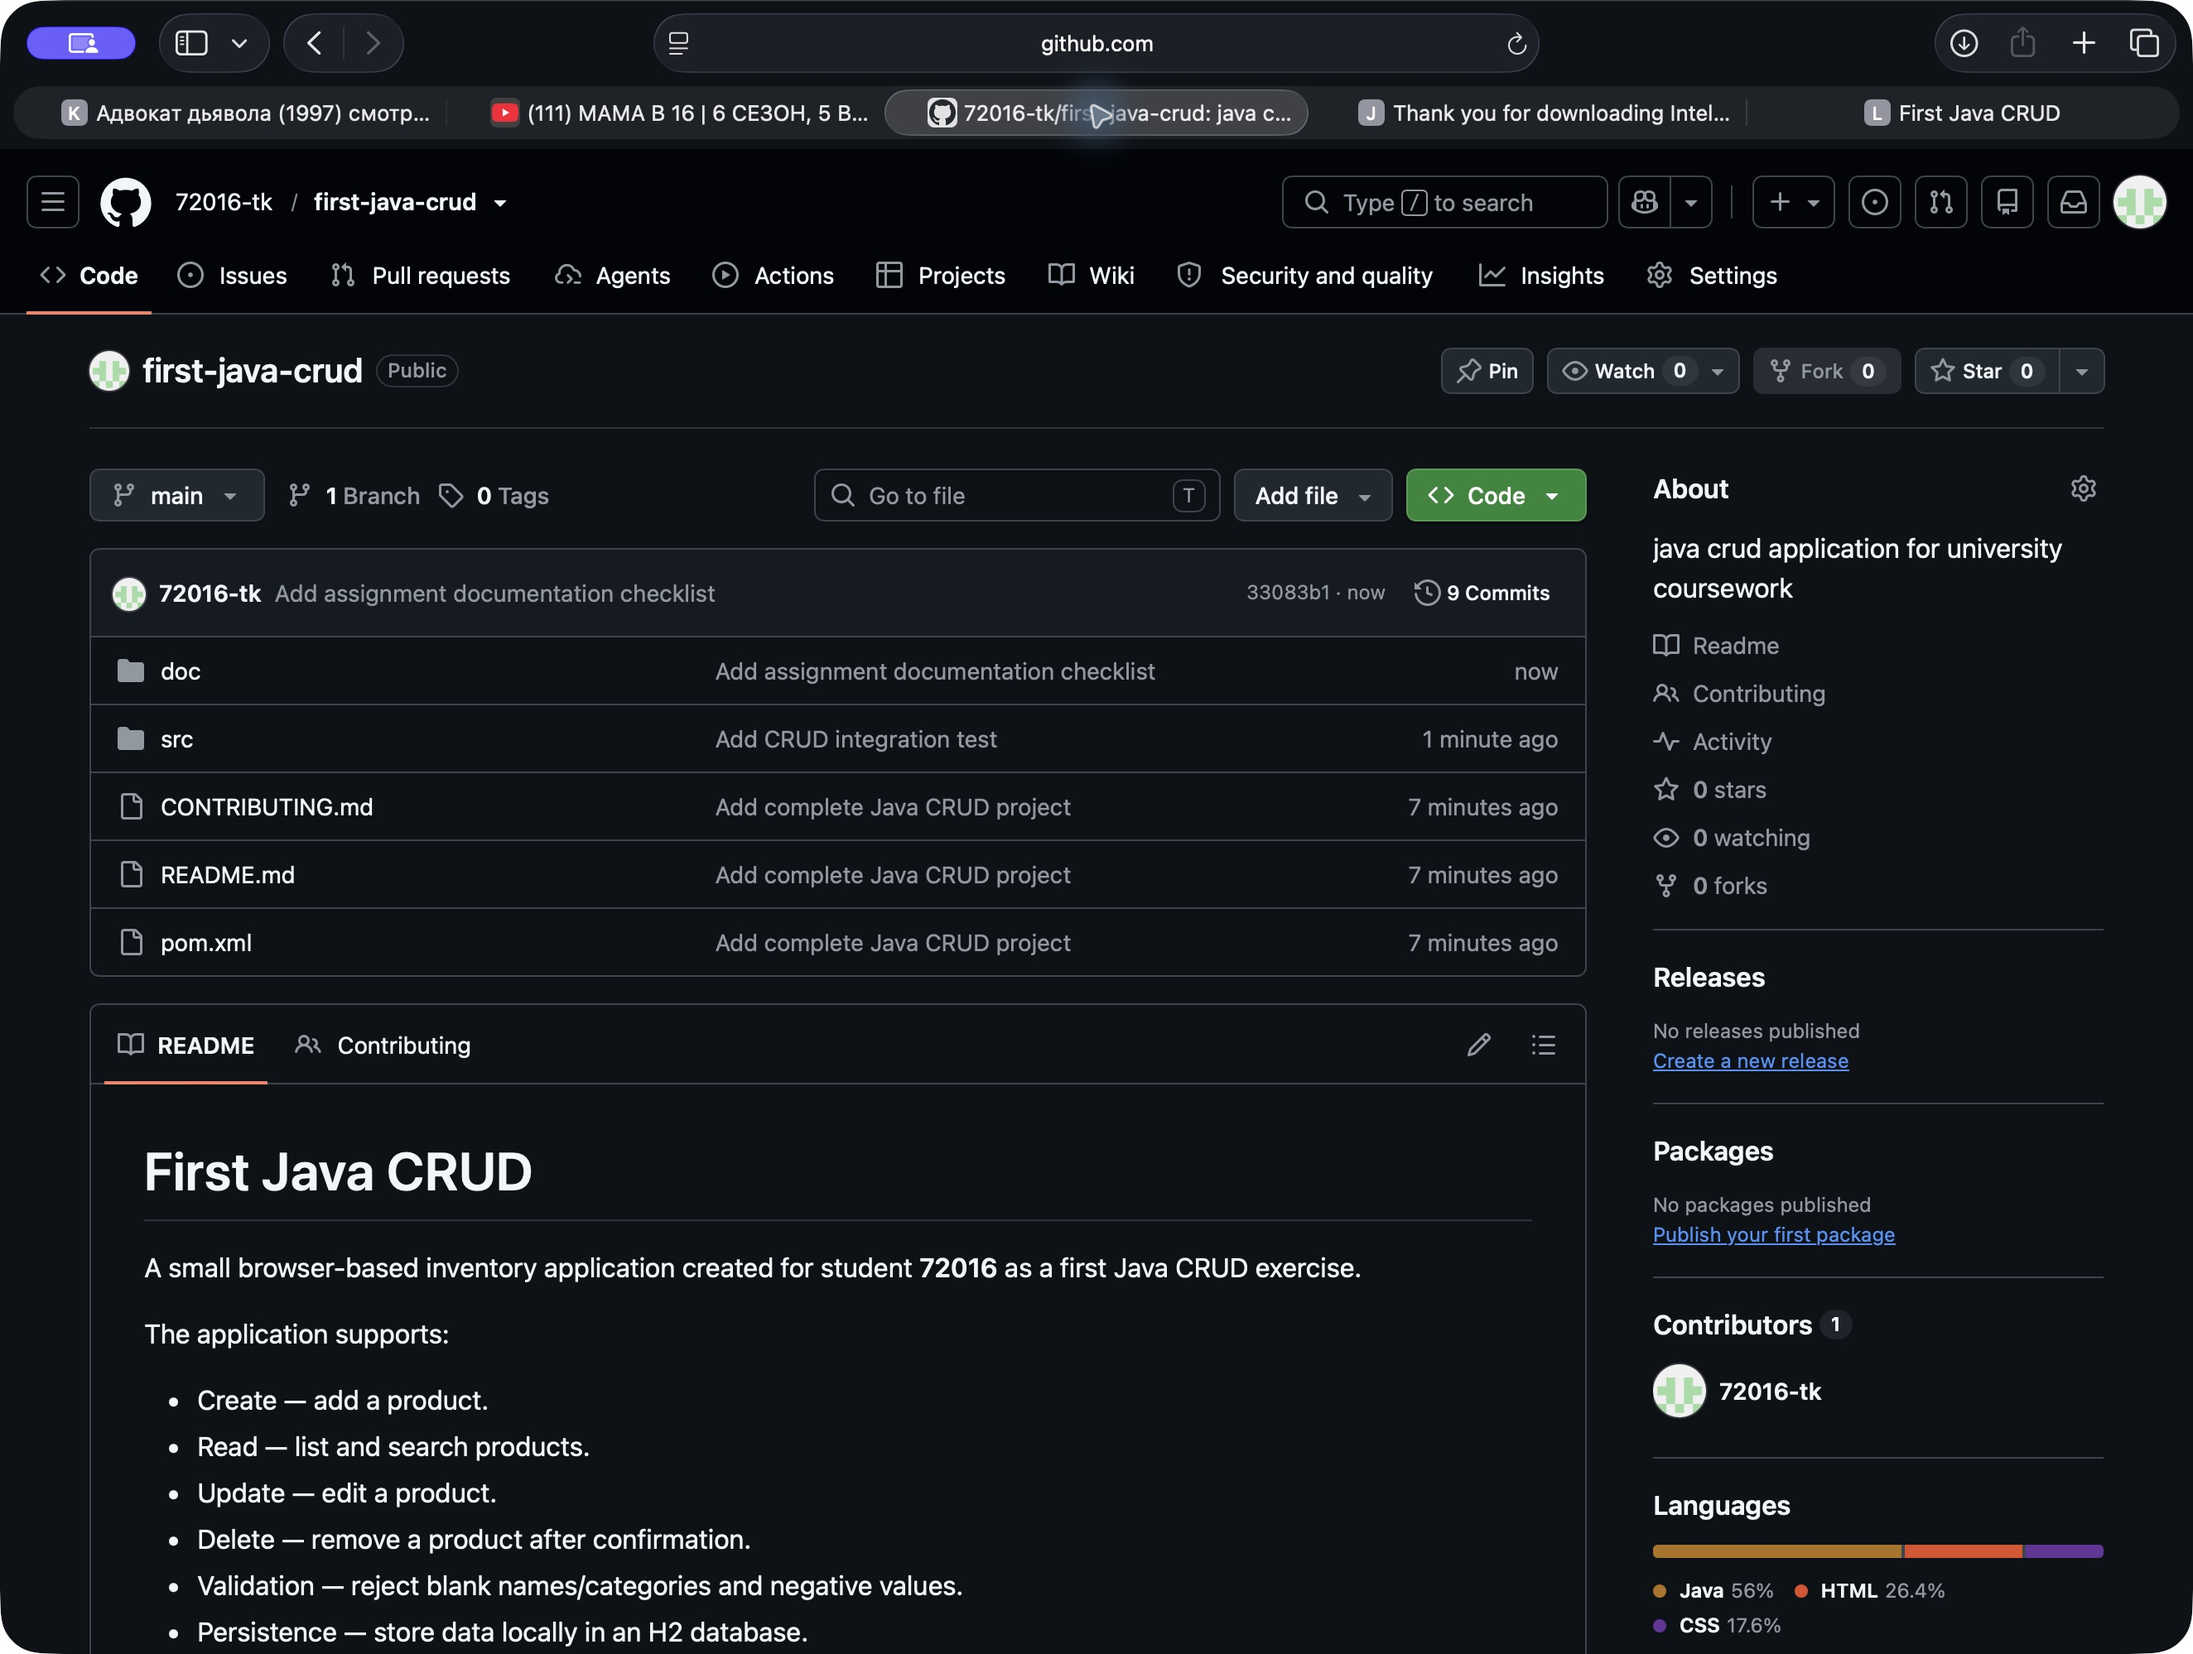
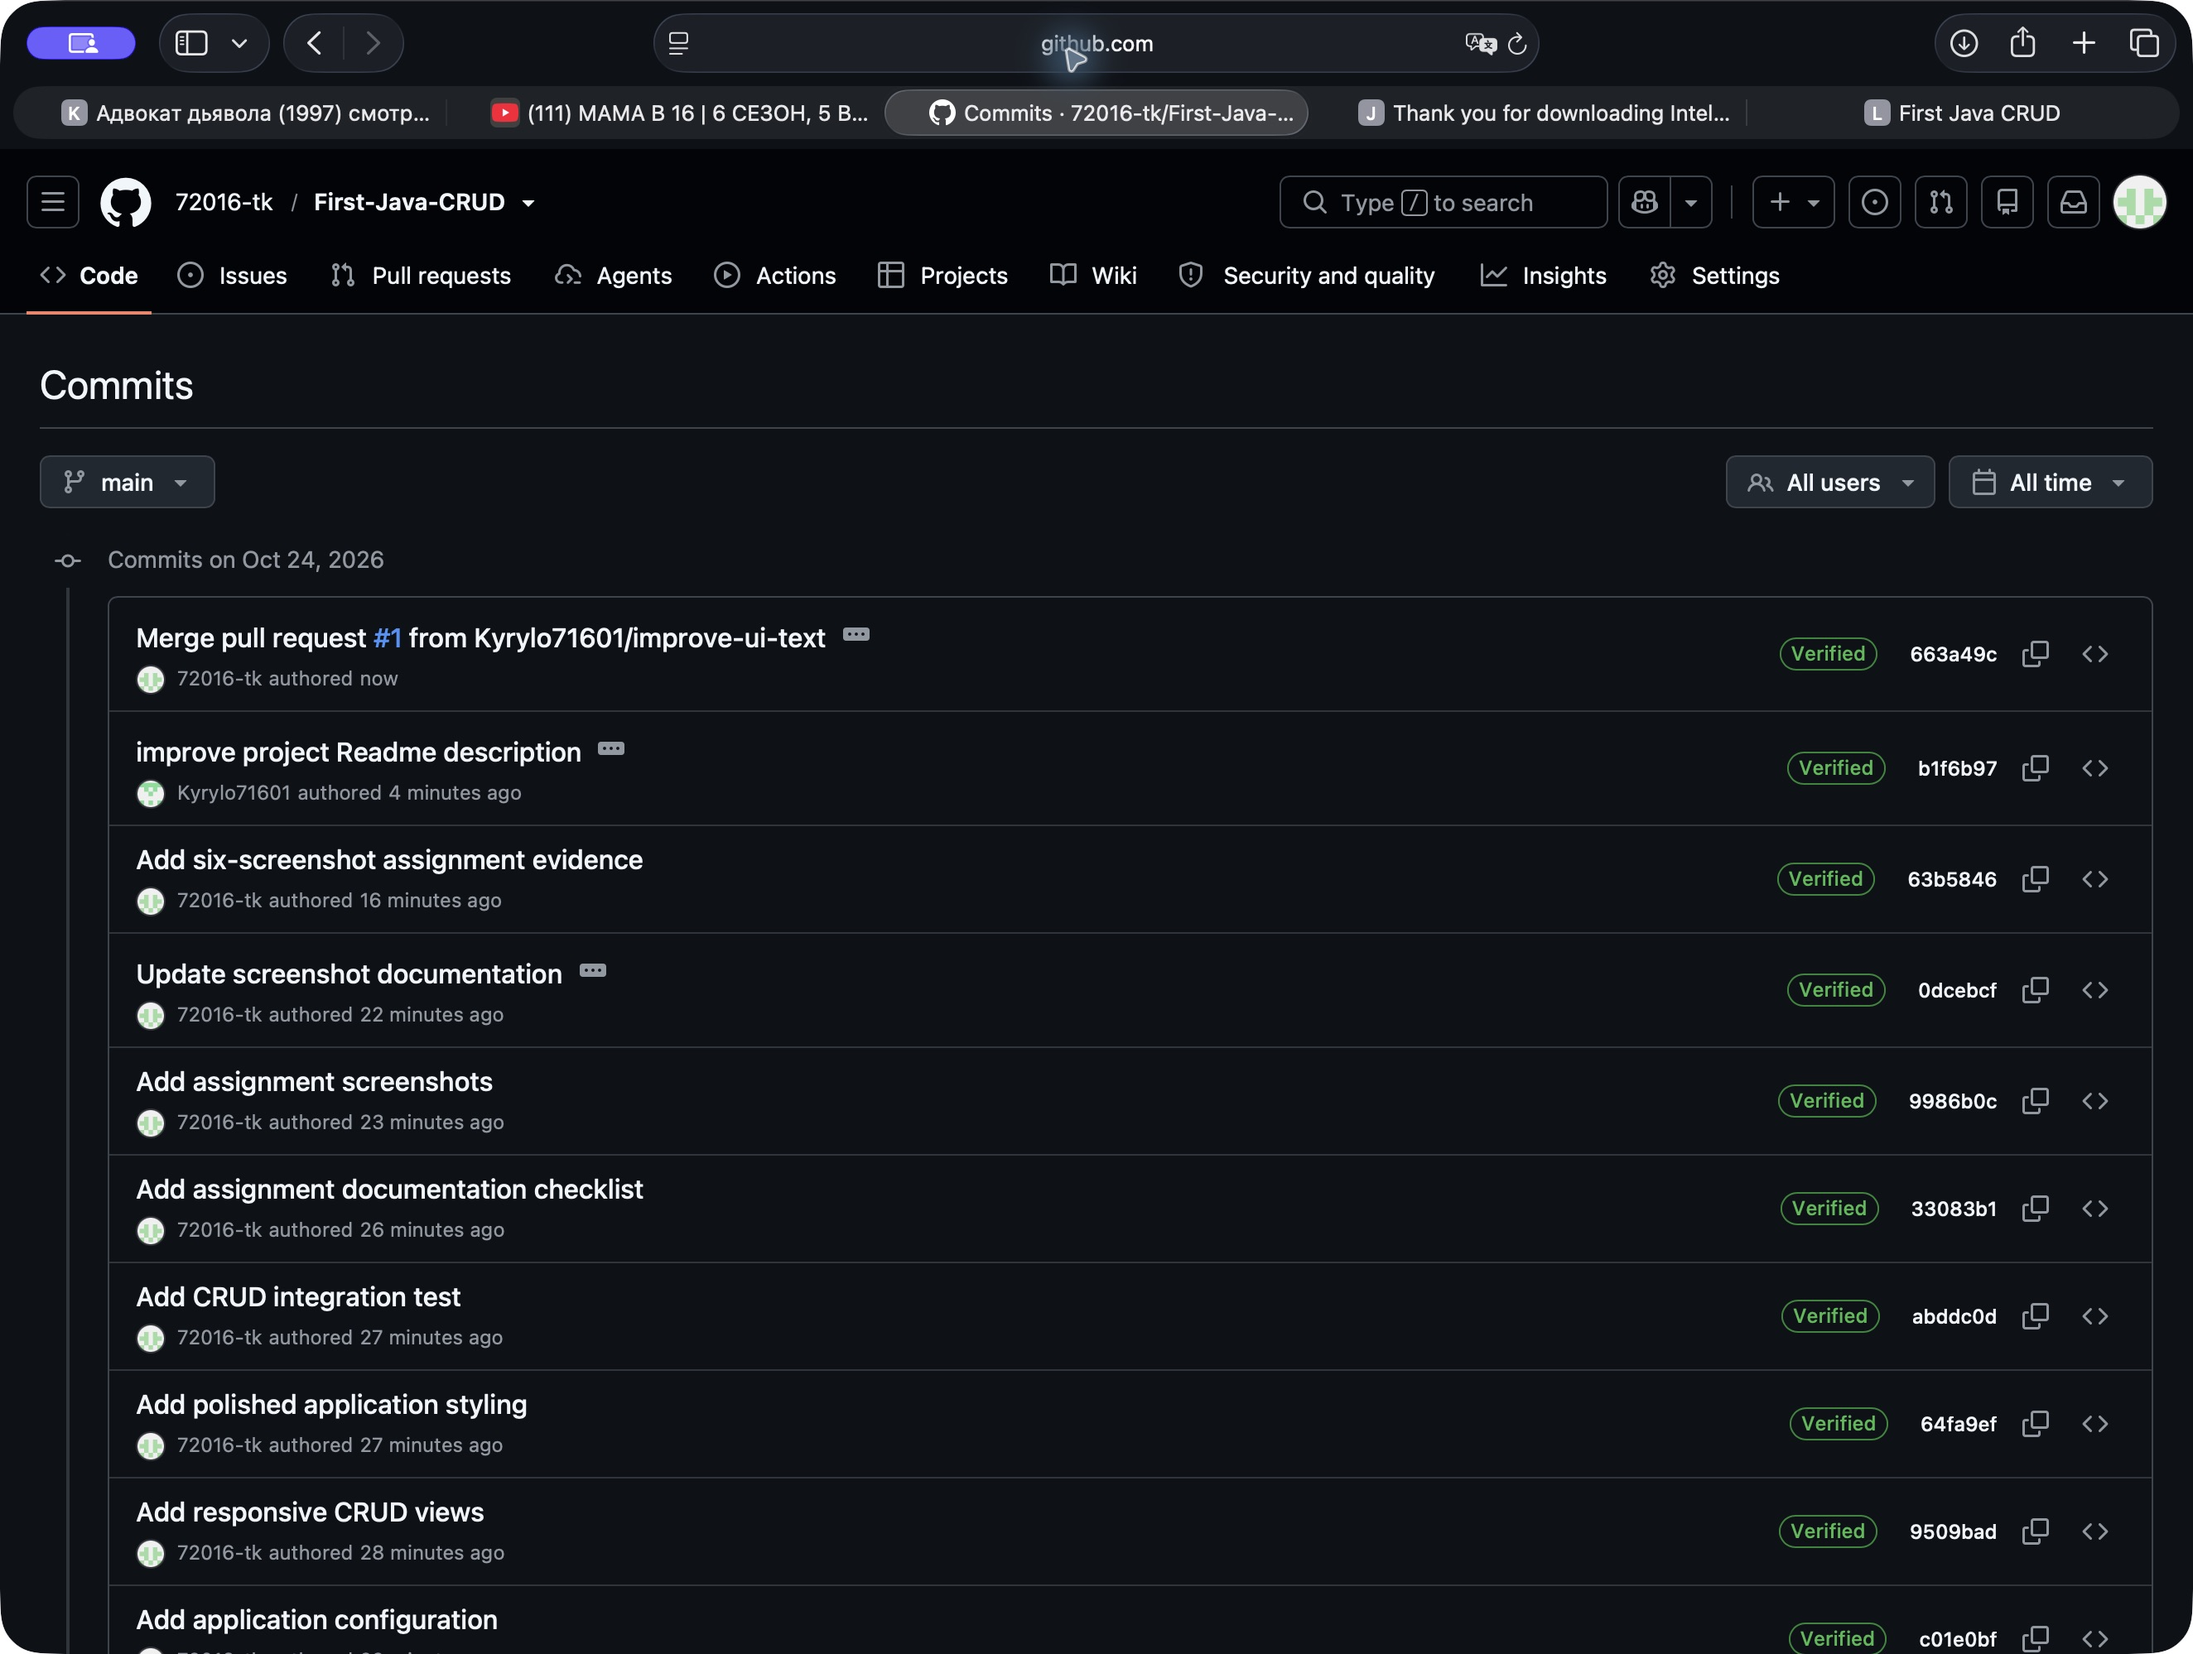
Add final partner collaboration evidence

diff --git a/doc/README.md b/doc/README.md
@@ -9,8 +9,8 @@ Current evidence:
 3. `edit-product.png` — the Update form populated with an existing product.
 4. `intellij-startup.png` — IntelliJ IDEA with the application source and successful startup output, including `Tomcat started on port 8080` and `Started FirstJavaCrudApplication`.
 5. `github-history.png` — the current public GitHub repository and commit history.
-6. `github-final.png` — the completed public repository after the assignment files were uploaded.
+6. `github-final.png` — the merged partner Pull Request showing the contribution from `Kyrylo71601` and the merge into `72016-tk:main`.
 
-After the partner Pull Request is merged, replace `github-history.png` with an updated screenshot that clearly shows commits from both student 72016 and the partner. An additional screenshot of the merged Pull Request is recommended because it makes the collaboration requirement easy to verify.
+The collaboration evidence now includes both the updated commit history and the merged Pull Request.
 
 Use PNG or JPG files. Do not include passwords, tokens, email notifications, or unrelated private information in screenshots.
